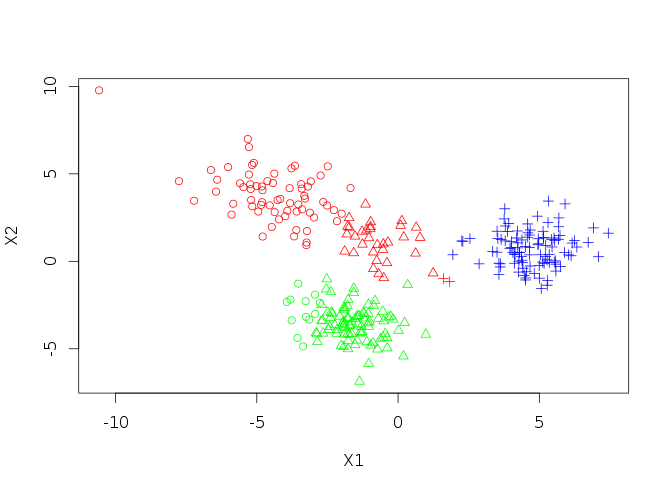
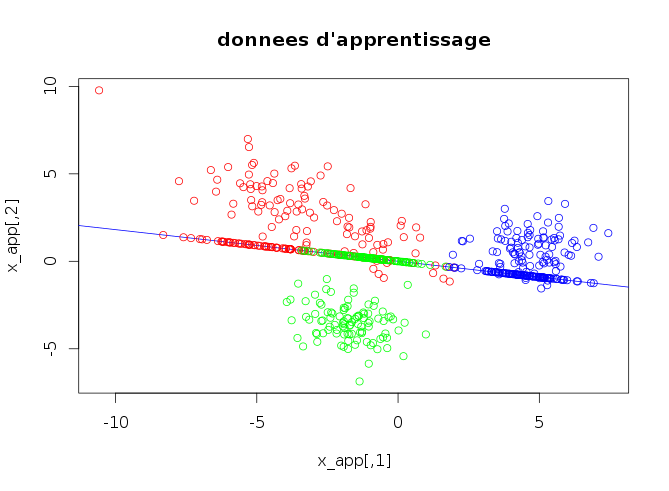
ajout des résultat du tp pour l'analyse factorielle

diff --git a/tp7/rapport/rapport.tex b/tp7/rapport/rapport.tex
@@ -130,6 +130,11 @@
   \clearpage
   
   \section*{Introduction}
+  Lors de ce TP, nous cherchons à passer d'une représentation de la classification de données
+  bi-dimensionnelle à une représentation mono-dimensionnelle. Pour cela, nous nous servons de
+  deux méthode : l'analyse en composantes principales et l'analyse factorielle discriminante.
+  Afin de déterminer la méthode la plus performante pour notre cas d'étude, nous avons classifié
+  les données projeté avec une analyse linéaire discriminante.
  
   \section{Données d'apprentissage}
   Dans un premier temps, nous avons affiché les données d'apprentissage et les données de test.
@@ -179,18 +184,29 @@
   x_app_ACP[,2] = ScalarProduct_app * Vp$vectors[2,1]
   \end{lstlisting}
   
-  \section{Classification par analyse linéaire discriminante}
+  \begin{figure}[H]
+  \center
+   \includegraphics[width=9cm]{apprentissage_acp.png}
+   \caption{Graphique des données d'apprentissage projeté sur la droite}
+  \end{figure}
+  
+  Nous pouvons voir sur ce graphique qu'il y a une zone sur l'axe discriminant où il y de nombreuses
+  données de la classe rouge qui sont projetées au même endroit que des données de la classe verte.
+  Cela risque de provoquer quelques erreurs lors de la classification des données.
+  
+  \subsection{Classification par analyse linéaire discriminante}
   
   Nous pouvons maintenant classer les données projetées grâce à une analyse linéaire discriminante. Nous 
   déterminons grâce à cette analyse que le taux d'erreur de la classification des données est de 84\%.
   
   \begin{figure}[H]
   \center
-   \includegraphics[width=9cm]{apprentissage_acp.png}
+   \includegraphics[width=9cm]{apprentissage_classifie.png}
    \caption{Graphique des données d'apprentissage classifié par analyse linéaire discriminante}
   \end{figure}
 
-  Les données sont alors classifié de la manière suivante :
+  Nous avons créé un tableau contenant la position des données afin de connaître quels classes
+  comportent le plus d'erreur de classification. Les données sont alors classifié de la manière suivante :
   \begin{center}
   \begin{tabular}{|c|c|c|c|}
    \hline
@@ -213,7 +229,8 @@
   
   \begin{figure}[H]
   \center
-   \includegraphics[width=9cm]{test_acp.png}
+  \includegraphics[width=9cm]{test_acp.png}
+   \includegraphics[width=9cm]{test_classifie.png}
    \caption{Graphique des données de test classifié par analyse linéaire discriminante}
   \end{figure}
   
@@ -233,9 +250,56 @@
   \end{center}
   
   Les résultats sont à peu prêt équivalant aux données d'apprentissage, c'est à nouveau la classe rouge
-  qui à le plus grand taux d'erreur.
+  qui à le plus grand taux d'erreur. Les résultats de cette classification sont trop juste car les erreurs
+  de classification se concentre sur une classe plus que sur les deux autres dans notre exemple.
   
+  \section{Analyse factorielle discriminante}
   
+  Le but de cette méthode est de rechercher l'attribut qui maximise la distance entre
+  les moyennes de chaque classe et minimise la dispersion intra-classe. Pour cela nous
+  devons d'abord calculer les matrices dispersion intra et inter-classe.
+  
+  \subsection{Estimation des moyennes et co-variances des classes}
+  Nous allons dans un premier temps estimer la moyenne de chaque classe dans le but
+  de calculer la matrice dispersion inter-classe. Nous obtenons la moyenne de chaque 
+  classe avec la macro suivante : 
+  
+  \begin{lstlisting}
+    mean1 <- colMeans(x_app[classe_app==1,])
+    mean2 <- colMeans(x_app[classe_app==2,])
+    mean3 <- colMeans(x_app[classe_app==3,])
+  \end{lstlisting}
+
+  Nous pouvons alors calculer la matrice dispersion inter-classe de la manière suivante :
+  
+  \begin{lstlisting}
+    Sb=(mean1-mean)%*%t(mean1-mean)+
+      (mean2-mean)%*%t(mean2-mean)+
+      (mean3-mean)%*%t(mean3-mean)
+  \end{lstlisting}
+  
+  Pour la matrice dispersion intra-classe, nous calculons la matrice de co-variance de chaque
+  classe, puis nous calculons la matrice dispersion comme ce-ci : 
+  
+  \begin{lstlisting}
+    Sw=S1+S2+S3
+  \end{lstlisting}
+  
+  Il reste à calculer l'équation de la droite avec la macro suivante : 
+  
+  \begin{lstlisting}
+    invSw= solve(Sw)
+    invSw_by_Sb= invSw %*% Sb
+    Vp<- eigen(invSw_by_Sb)
+  \end{lstlisting}
+  
+  Nous obtenons le résultat suivant : 
+  
+  \begin{figure}[H]
+  \center
+   \includegraphics[width=9cm]{apprentissage_acp.png}
+   \caption{Graphique des données d'apprentissage classifié par analyse linéaire discriminante}
+  \end{figure}
   
 \end{document}  
 
